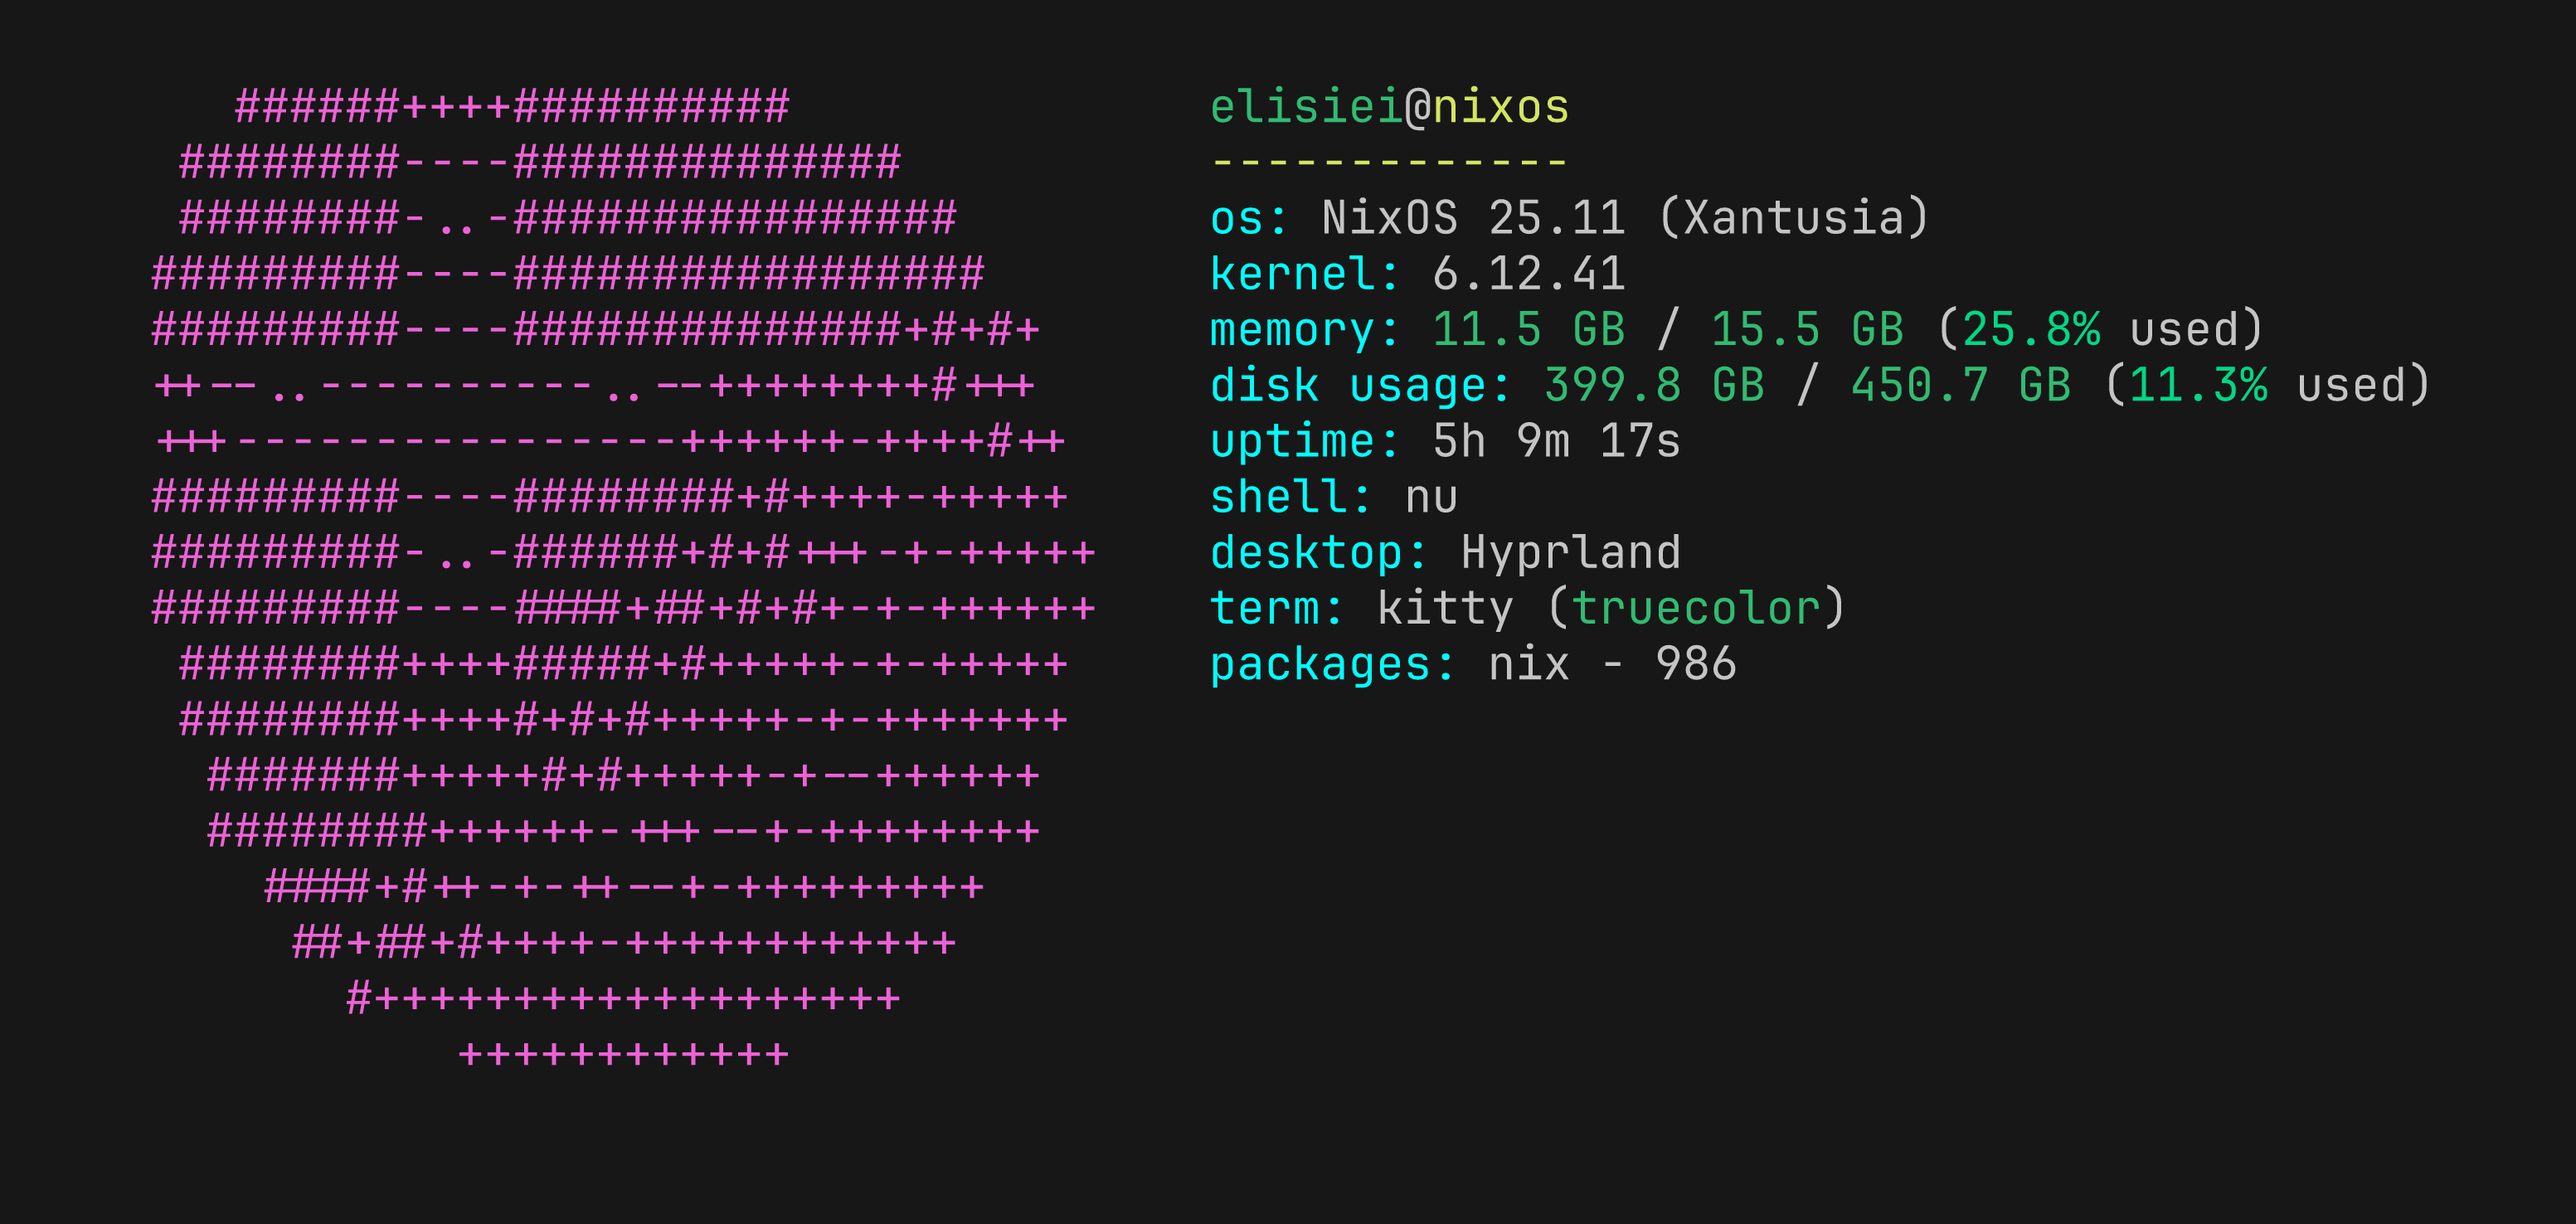
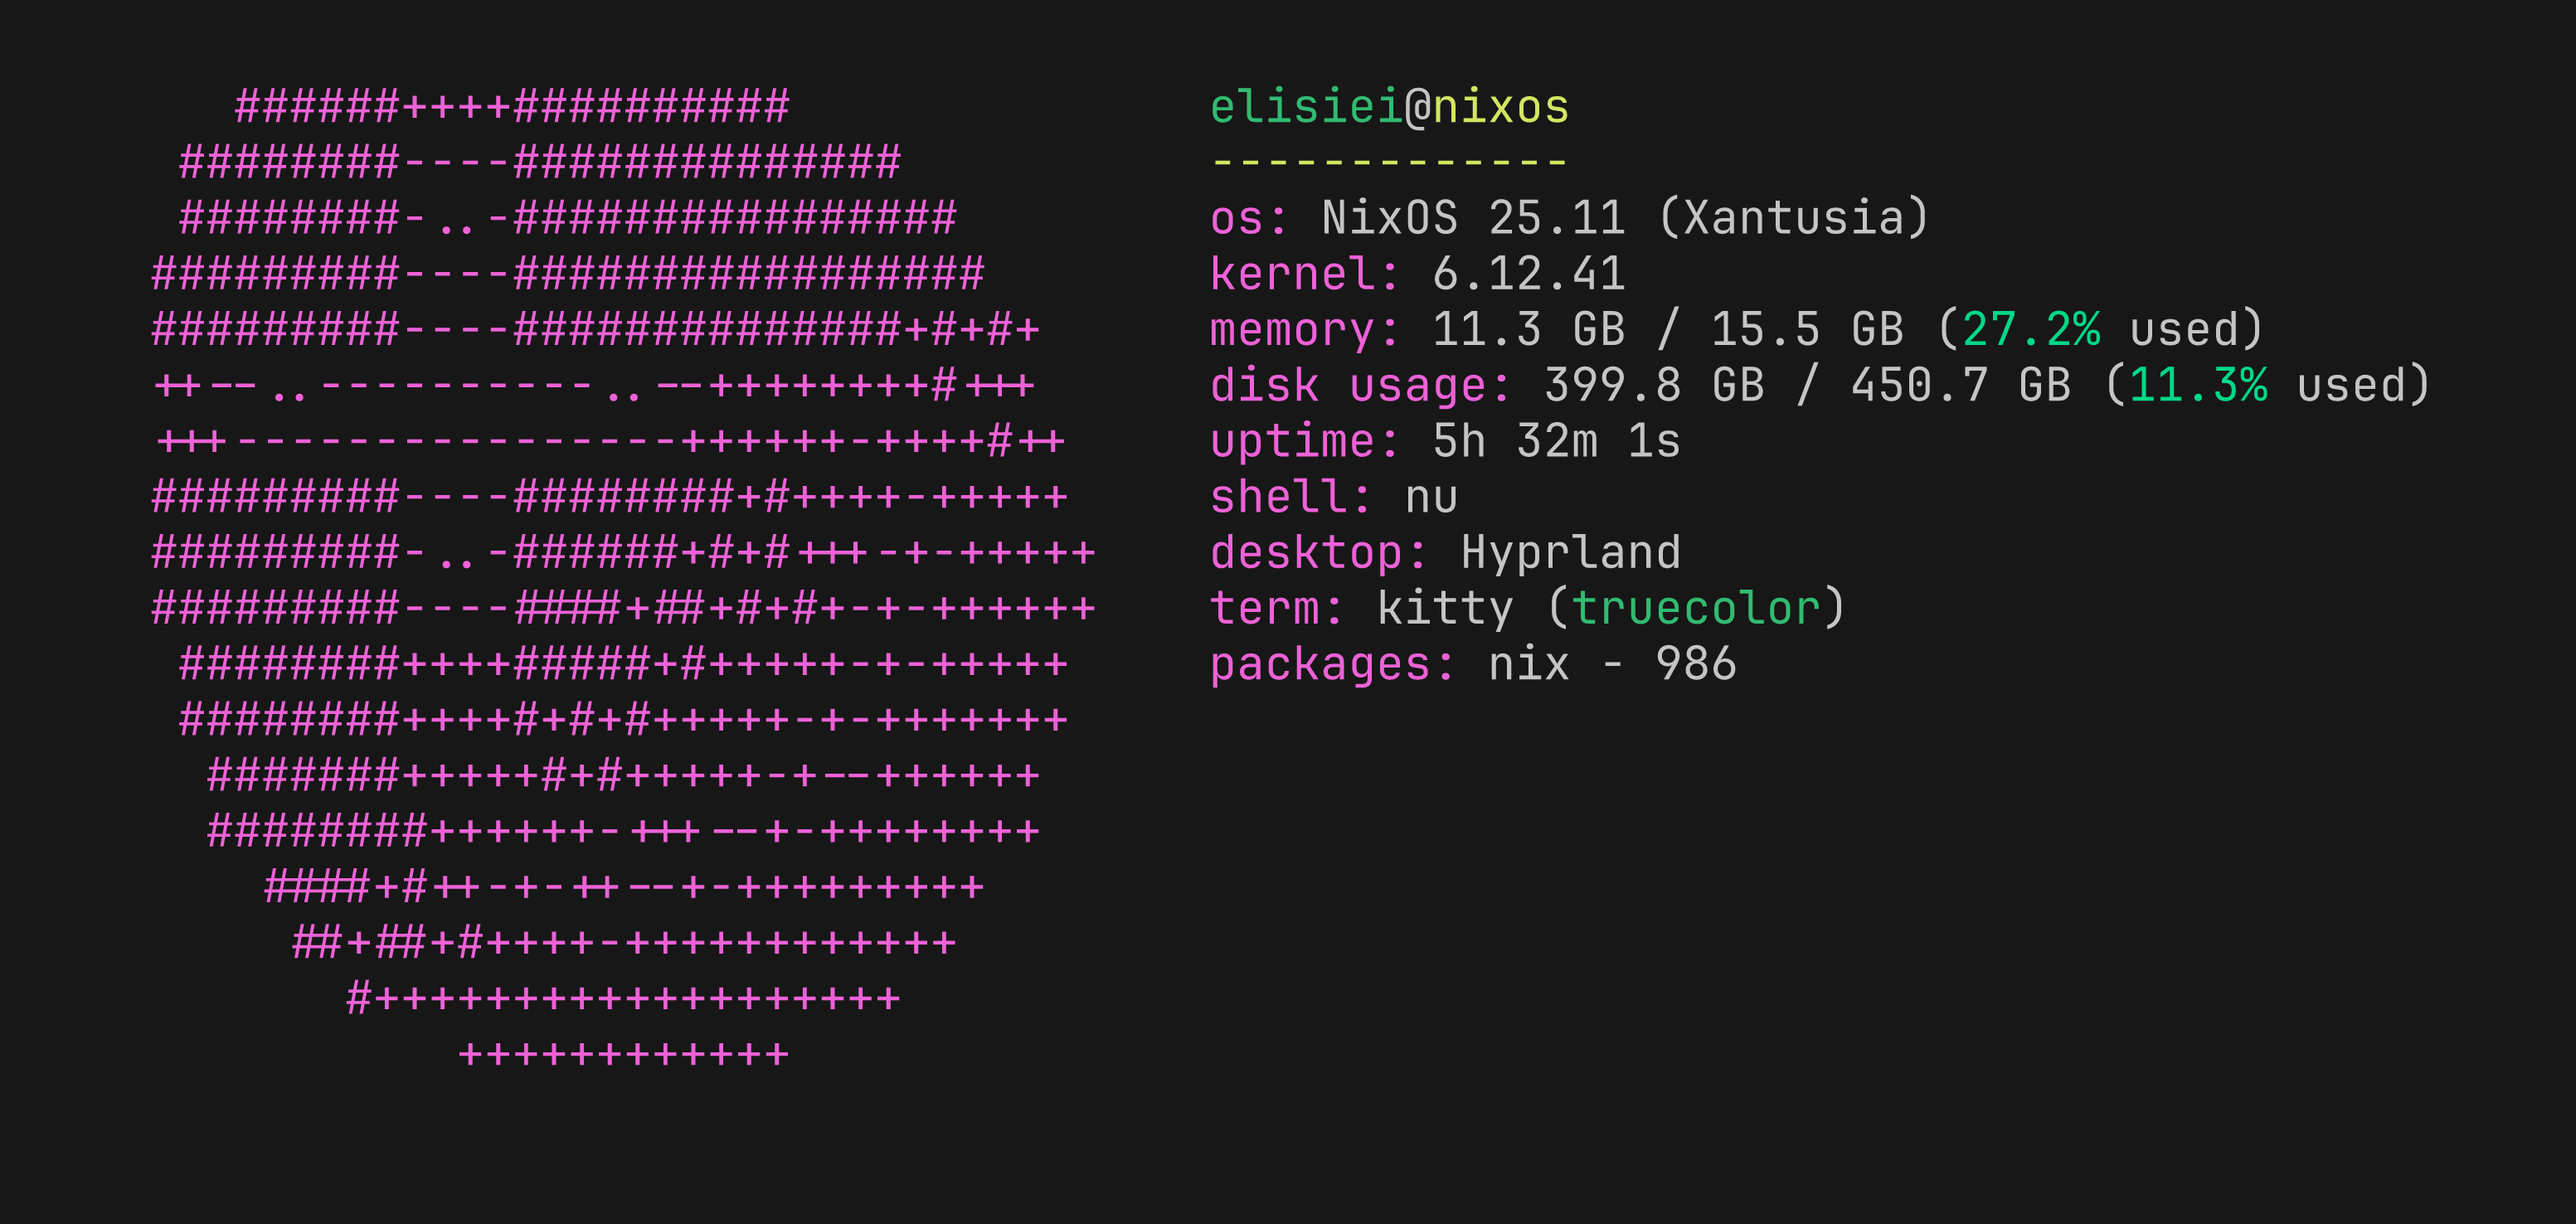
update

Changed region(s): [[0.4684, 0.1558, 0.7495, 0.4986], [0.7807, 0.2493, 0.812, 0.3428], [0.4684, 0.5298, 0.5621, 0.561]]

diff --git a/arts.go b/arts.go
@@ -12,13 +12,15 @@ import (
 )
 
 type Art struct {
-	Name string
-	Art  []string
+	Name   string
+	Art    []string
+	Accent string
 }
 
 var Arts []Art = []Art{
 	{
-		Name: "nixos",
+		Name:   "nixos",
+		Accent: color.Blue,
 		Art: []string{
 			color.Colorize("          ++      -----     --          ", color.Blue),
 			color.Colorize("         ++++      -----   ----         ", color.Blue),
@@ -43,7 +45,8 @@ var Arts []Art = []Art{
 		},
 	},
 	{
-		Name: "debian",
+		Name:   "debian",
+		Accent: color.Red,
 		Art: []string{
 			color.Colorize("                -- .                    ", color.Red),
 			color.Colorize("            ----+++------------         ", color.Red),
@@ -74,7 +77,8 @@ var Arts []Art = []Art{
 		},
 	},
 	{
-		Name: "bazzite",
+		Name:   "bazzite",
+		Accent: color.Magenta,
 		Art: []string{
 			color.Colorize("      ######++++##########              ", color.Magenta),
 			color.Colorize("    ########----##############          ", color.Magenta),
@@ -97,7 +101,8 @@ var Arts []Art = []Art{
 		},
 	},
 	{
-		Name: "arch",
+		Name:   "arch",
+		Accent: color.Blue,
 		Art: []string{
 			color.Colorize("                   ++                   ", color.Blue),
 			color.Colorize("                  ++++                  ", color.Blue),
@@ -123,7 +128,8 @@ var Arts []Art = []Art{
 		},
 	},
 	{
-		Name: "gentoo",
+		Name:   "gentoo",
+		Accent: color.Magenta,
 		Art: []string{
 			color.Colorize("           --.   ...---                 ", color.Magenta),
 			color.Colorize("        -. .      ......--              ", color.Magenta),
@@ -148,7 +154,8 @@ var Arts []Art = []Art{
 		},
 	},
 	{
-		Name: "manjaro",
+		Name:   "manjaro",
+		Accent: color.Green,
 		Art: []string{
 			color.Colorize("--------------------------   -----------", color.Green),
 			color.Colorize("--------------------------   -----------", color.Green),
@@ -175,7 +182,8 @@ var Arts []Art = []Art{
 		},
 	},
 	{
-		Name: "void",
+		Name:   "void",
+		Accent: color.Green,
 		Art: []string{
 			color.Colorize("                   ------------                   ", color.Green),
 			color.Colorize("               --------------------               ", color.Green),
@@ -202,7 +210,8 @@ var Arts []Art = []Art{
 		},
 	},
 	{
-		Name: "void-textless",
+		Name:   "void-textless",
+		Accent: color.Green,
 		Art: []string{
 			color.Colorize("              ------------              ", color.Green),
 			color.Colorize("          --------------------          ", color.Green),
@@ -229,7 +238,8 @@ var Arts []Art = []Art{
 		},
 	},
 	{
-		Name: "artix",
+		Name:   "artix",
+		Accent: color.Cyan,
 		Art: []string{
 			color.Colorize("                   --                   ", color.Cyan),
 			color.Colorize("                   --                   ", color.Cyan),
@@ -256,7 +266,8 @@ var Arts []Art = []Art{
 		},
 	},
 	{
-		Name: "freebsd",
+		Name:   "freebsd",
+		Accent: color.BrightRed,
 		Art: []string{
 			color.Colorize("++++++                             +++++", color.BrightRed),
 			color.Colorize("++++++++++  +++++++++++++++++  +++++++++", color.BrightRed),
@@ -282,7 +293,8 @@ var Arts []Art = []Art{
 		},
 	},
 	{
-		Name: "opensuse",
+		Name:   "opensuse",
+		Accent: color.Green,
 		Art: []string{
 			color.Colorize("     +++++++++++++++++++++              ", color.Green),
 			color.Colorize("     +++             ++++++++           ", color.Green),
@@ -305,35 +317,9 @@ var Arts []Art = []Art{
 		},
 	},
 	{
-		Name: "windows", // note: i was FORCED by a friend to make windows support,
-		// my unique condition was that he had to make windows support.
-		Art: []string{
-			color.Colorize("+++++++++++++++++++  +++++++++++++++++++", color.Cyan),
-			color.Colorize("+++++++++++++++++++  +++++++++++++++++++", color.Cyan),
-			color.Colorize("+++++++++++++++++++  +++++++++++++++++++", color.Cyan),
-			color.Colorize("+++++++++++++++++++  +++++++++++++++++++", color.Cyan),
-			color.Colorize("+++++++++++++++++++  +++++++++++++++++++", color.Cyan),
-			color.Colorize("+++++++++++++++++++  +++++++++++++++++++", color.Cyan),
-			color.Colorize("+++++++++++++++++++  +++++++++++++++++++", color.Cyan),
-			color.Colorize("+++++++++++++++++++  +++++++++++++++++++", color.Cyan),
-			color.Colorize("+++++++++++++++++++  +++++++++++++++++++", color.Cyan),
-			color.Colorize("+++++++++++++++++++  +++++++++++++++++++", color.Cyan),
-			color.Colorize("                                        ", color.Cyan),
-			color.Colorize("+++++++++++++++++++  +++++++++++++++++++", color.Cyan),
-			color.Colorize("+++++++++++++++++++  +++++++++++++++++++", color.Cyan),
-			color.Colorize("+++++++++++++++++++  +++++++++++++++++++", color.Cyan),
-			color.Colorize("+++++++++++++++++++  +++++++++++++++++++", color.Cyan),
-			color.Colorize("+++++++++++++++++++  +++++++++++++++++++", color.Cyan),
-			color.Colorize("+++++++++++++++++++  +++++++++++++++++++", color.Cyan),
-			color.Colorize("+++++++++++++++++++  +++++++++++++++++++", color.Cyan),
-			color.Colorize("+++++++++++++++++++  +++++++++++++++++++", color.Cyan),
-			color.Colorize("+++++++++++++++++++  +++++++++++++++++++", color.Cyan),
-			color.Colorize("+++++++++++++++++++  +++++++++++++++++++", color.Cyan),
-		},
-	},
-	{
-		Name: "none",
-		Art:  []string{},
+		Name:   "none",
+		Accent: color.Blue,
+		Art:    []string{},
 	},
 }
 

diff --git a/main.go b/main.go
@@ -91,7 +91,7 @@ func getPkgCounts() string {
 func getMemoryUsage() string {
 	meminfo, err := os.ReadFile("/proc/meminfo")
 	if err != nil {
-		return color.Colorize("couldn't read meminfo", color.BrightRed)
+		return unknown
 	}
 
 	var total, available uint64
@@ -106,7 +106,7 @@ func getMemoryUsage() string {
 	}
 
 	if total == 0 {
-		return color.Colorize("meminfo missing MemTotal", color.BrightRed)
+		return unknown
 	}
 
 	totalBytes := total * 1024
@@ -125,8 +125,8 @@ func getMemoryUsage() string {
 	}
 
 	return fmt.Sprintf("%s / %s (%s used)",
-		color.Colorize(HumanBytes(availableBytes), color.Green),
-		color.Colorize(HumanBytes(totalBytes), color.Green),
+		HumanBytes(availableBytes),
+		HumanBytes(totalBytes),
 		color.Colorize(fmt.Sprintf("%.1f%%", usedPct), usageColor),
 	)
 }
@@ -134,13 +134,13 @@ func getMemoryUsage() string {
 func getUptime() string {
 	up, err := os.ReadFile("/proc/uptime")
 	if err != nil {
-		return "couldn't read uptime"
+		return unknown
 	}
 
 	uptime := strings.Split(string(up), " ")[0]
 	secs, err := strconv.ParseFloat(uptime, 64)
 	if err != nil {
-		return "invalid duration"
+		return unknown
 	}
 
 	return FormatDuration(int(secs))
@@ -149,7 +149,7 @@ func getUptime() string {
 func getShell() string {
 	sh := os.Getenv("SHELL")
 	if sh == "" {
-		sh = "unknown"
+		sh = unknown
 	}
 
 	shell := strings.Split(sh, "/")
@@ -160,23 +160,23 @@ func getShell() string {
 func getDiskUsage() string {
 	out, err := exec.Command("df", "-B1", "/").Output()
 	if err != nil {
-		return color.Colorize("couldn't get disk usage", color.BrightRed)
+		return unknown
 	}
 
 	lines := bytes.Split(out, []byte("\n"))
 	if len(lines) < 2 {
-		return color.Colorize("unexpected df output", color.BrightRed)
+		return unknown
 	}
 
 	cols := strings.Fields(string(lines[1]))
 	if len(cols) < 3 {
-		return color.Colorize("unexpected df columns", color.BrightRed)
+		return unknown
 	}
 
 	total, err1 := strconv.ParseUint(cols[1], 10, 64)
 	used, err2 := strconv.ParseUint(cols[2], 10, 64)
 	if err1 != nil || err2 != nil {
-		return color.Colorize("failed parsing df output", color.BrightRed)
+		return unknown
 	}
 
 	available := total - used
@@ -193,8 +193,8 @@ func getDiskUsage() string {
 	}
 
 	return fmt.Sprintf("%s / %s (%s used)",
-		color.Colorize(HumanBytes(available), color.Green),
-		color.Colorize(HumanBytes(total), color.Green),
+		HumanBytes(available),
+		HumanBytes(total),
 		color.Colorize(fmt.Sprintf("%.1f%%", usedPct), usageColor),
 	)
 }
@@ -265,15 +265,15 @@ func main() {
 	info := []string{
 		fmt.Sprintf("%s@%s", color.Colorize(user, color.Green), color.Colorize(hostname, color.Yellow)),
 		fmt.Sprintf("%s", strings.Repeat(color.Colorize(divider, color.Yellow), len(fmt.Sprintf("%s@%s", user, hostname)))),
-		fmt.Sprintf("%s %s", color.Colorize("os:", color.BrightCyan), distroName),
-		fmt.Sprintf("%s %s", color.Colorize("kernel:", color.BrightCyan), kernel),
-		fmt.Sprintf("%s %s", color.Colorize("memory:", color.BrightCyan), memoryUsage),
-		fmt.Sprintf("%s %s", color.Colorize("disk usage:", color.BrightCyan), diskUsage),
-		fmt.Sprintf("%s %s", color.Colorize("uptime:", color.BrightCyan), uptime),
-		fmt.Sprintf("%s %s", color.Colorize("shell:", color.BrightCyan), shell),
-		fmt.Sprintf("%s %s", color.Colorize("desktop:", color.BrightCyan), de),
-		fmt.Sprintf("%s %s (%s)", color.Colorize("term:", color.BrightCyan), term, color.Colorize(colorterm, color.Green)),
-		fmt.Sprintf("%s %s", color.Colorize("packages:", color.BrightCyan), pkgCounts),
+		fmt.Sprintf("%s %s", color.Colorize("os:", art.Accent), distroName),
+		fmt.Sprintf("%s %s", color.Colorize("kernel:", art.Accent), kernel),
+		fmt.Sprintf("%s %s", color.Colorize("memory:", art.Accent), memoryUsage),
+		fmt.Sprintf("%s %s", color.Colorize("disk usage:", art.Accent), diskUsage),
+		fmt.Sprintf("%s %s", color.Colorize("uptime:", art.Accent), uptime),
+		fmt.Sprintf("%s %s", color.Colorize("shell:", art.Accent), shell),
+		fmt.Sprintf("%s %s", color.Colorize("desktop:", art.Accent), de),
+		fmt.Sprintf("%s %s (%s)", color.Colorize("term:", art.Accent), term, color.Colorize(colorterm, color.Green)),
+		fmt.Sprintf("%s %s", color.Colorize("packages:", art.Accent), pkgCounts),
 	}
 
 	m := max(len(info), len(art.Art))

diff --git a/README.md b/README.md
@@ -9,13 +9,15 @@
 
 **real** simple system fetch with the looks..? (is this a hyperland reference??)
 
-![sample](/assets/normal.png)
+![sample](/assets/nixos.png)
 
 <details>
 <summary><b>more screenshots</b></summary>
 <img src="/assets/debian.png" alt="debian demo" />
-<img src="/assets/none.png" alt="none demo" />
+<img src="/assets/arch.png" alt="arch demo" />
 <img src="/assets/void.png" alt="void demo" />
+<img src="/assets/gentoo.png" alt="gentoo demo" />
+<img src="/assets/bazzite.png" alt="bazzite demo" />
 </details>
 
 ### features
